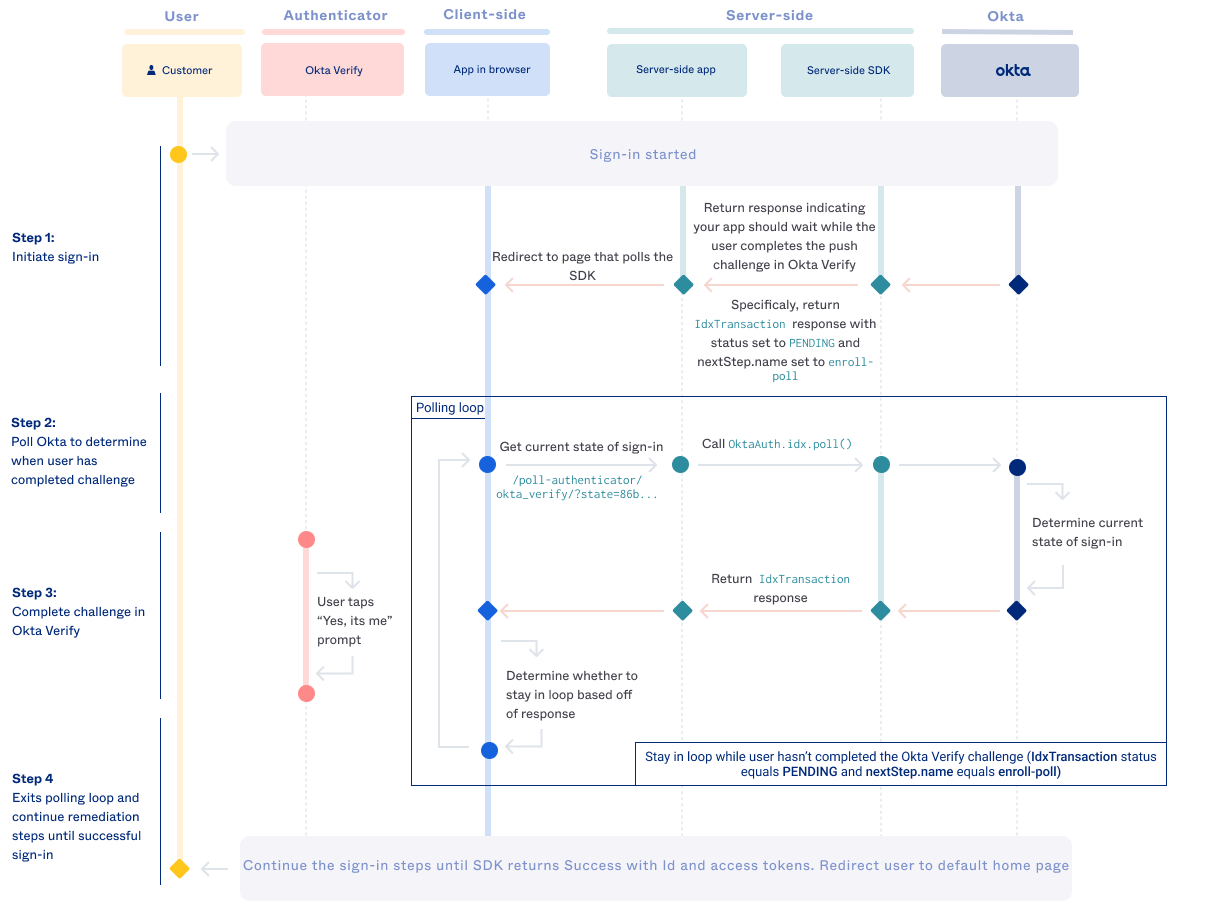
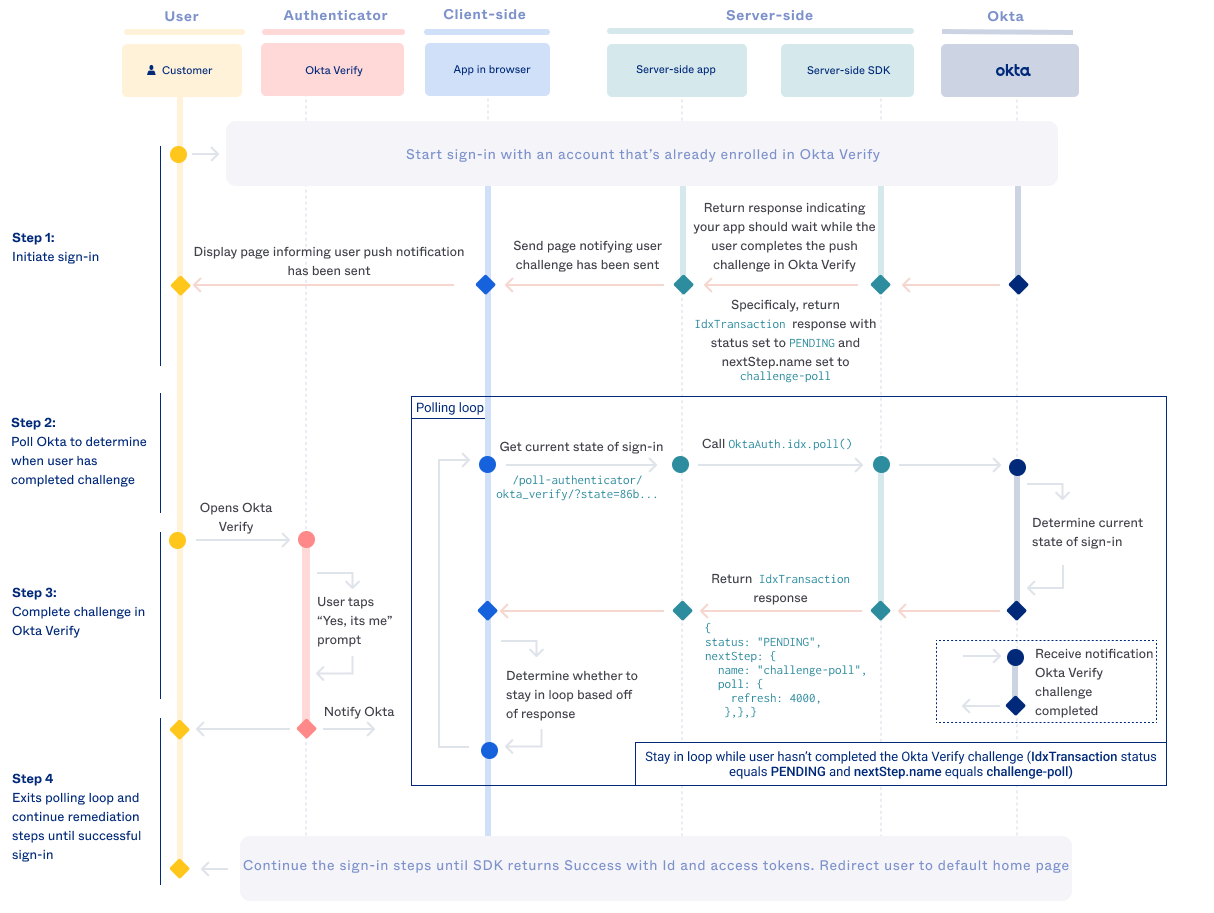
Okta Verify - diagram for enroll push

diff --git a/packages/@okta/vuepress-site/docs/guides/authenticators-okta-verify/main/nodeexpress/commonsteps.md b/packages/@okta/vuepress-site/docs/guides/authenticators-okta-verify/main/nodeexpress/commonsteps.md
@@ -151,15 +151,11 @@ When the user selects and submits a verify option, call `IdxTransaction.idx.proc
 
 ### Polling Okta
 
-During Okta Verify enrollment and challenge, the flow steps outside your app as the user performs actions within Okta Verify. While your app waits, it should poll the SDK to determine when the user finishes their tasks within Okta Verify.
+During Okta Verify enrollment and challenge, the flow steps outside your app as the user performs actions within Okta Verify. While your app waits, it should poll the SDK to determine when the user finishes their tasks within Okta Verify. This polling logic is explained with step-by-step instructions for the Okta Verify challenge flow as an example, although with slight modifications the steps can also apply to the enrollment flow.
 
-#### Polling for Okta Verify Challenge
+#### Summary of steps
 
 The following summarizes the polling logic for the Okta Verify challenge flow with a push notification.
-
-##### Summary of steps
-
-The following summarizes the challenge flow polling for a sign-in:
 
 <div class="common-image-format">
 
@@ -167,26 +163,26 @@ The following summarizes the challenge flow polling for a sign-in:
 
 </div>
 
-##### 1. Initiate sign-in
+#### 1. Initiate sign-in
 
 First, the user initiates the user sign-in with username and password.
 
-##### 2: Poll Okta to determine when user has completed challenge
+#### 2: Poll Okta to determine when user has completed challenge
 
-After the call to `OktaAuth.idx.authenticate`, the responding `IdxTransaction` object returns a `status` of `PENDING` and `nextStep.name` equal to `enroll-poll`. `enroll-poll` indicates that your app should begin polling the SDK to determine when the user has completed the Okta Verify challenge. Although this example is showing the polling for the Okta Verify challenge with push notification, there are other scenarios where your app is directed to poll. These included the following:  your app should poll. The
+After the call to `OktaAuth.idx.authenticate`, the responding `IdxTransaction` object returns a `status` of `PENDING` and `nextStep.name` equal to `enroll-poll`. `enroll-poll` indicates that your app should begin polling the SDK to determine when the user has completed the Okta Verify challenge. Although this example is showing the polling for the Okta Verify challenge with push notification, there are other scenarios where your app is directed to poll. These included the following:
 
-###### Other scenarios where your app polls
+##### Other scenarios where your app polls
 
 * During enrollment to determine when the user has completed account setup in the Okta Verify app by scanning the QR code.
 * During enrollment to determine when the user has completed account setup in the Okta Verify app using the email or SMS activation link.
 * During challenge to determine when the user confirms they are trying to sign in using the Okta Verify app.
 
-Specifically, your app is notified to start polling when the `IdxTransaction` response's properties have the following values:
+Specifically, your app is notified to start polling when `IdxTransaction` has the following property values:
 
 * **For enrollment flow:** `IdxTransaction.status` equals `PENDING` and `IdxTransaction.nextStep.name` equals `enroll-poll`.
 * **For challenge flow:**  `IdxTransaction.status` equals `PENDING` and `IdxTransaction.nextStep.name` equals `challenge-poll`.
 
-###### IdxTransaction response
+##### IdxTransaction response
 
 For this example, `IdxTransaction` response for indicating a poll for an Okta Verify challenge follows:
 
@@ -214,7 +210,7 @@ For this example, `IdxTransaction` response for indicating a poll for an Okta Ve
 }
 ```
 
-And enrollment flow example follows:
+For an enrollment flow, `IdxTranaction` looks like the following:
 
 ```json
 {
@@ -242,7 +238,7 @@ And enrollment flow example follows:
 }
 ```
 
-###### SDK method to poll
+##### SDK method to poll
 
 Use `OktaAuth.idx.poll()` to poll Okta to determine the when the user has completed the flows in Okta Verify.
 
@@ -252,7 +248,9 @@ const transaction = await authClient.idx.poll();
 handleTransactionWithoutRedirect({ req, res, authClient, transaction });
 ```
 
-#### Polling mechanism
+This method is the same for challenge and enrollment flows.
+
+##### Polling mechanism
 
 There are many ways to implement polling in your application. The sample application implements it by repeatedly calling the server using client-side javascript. Your poll interval should be pulled from `IdxTransaction.nextStep.refresh` value.
 
@@ -282,7 +280,7 @@ function poll(url, refresh) {
 ```
 
 
-##### 3: Complete challenge in Okta Verify
+#### 3: Complete challenge in Okta Verify
 
 Next, the user completes the challenge in Okta Verify. For the push notification that tap on the "Yes, its me" prompt. For the enrollment flow, the user needs to add their account to Okta Verify using a QR code or other channel such as email or SMS.
 

diff --git a/packages/@okta/vuepress-site/docs/guides/authenticators-okta-verify/main/nodeexpress/enrollmentqrcodeintegrationsteps.md b/packages/@okta/vuepress-site/docs/guides/authenticators-okta-verify/main/nodeexpress/enrollmentqrcodeintegrationsteps.md
@@ -1,4 +1,4 @@
-### 1: Initiate the sign-in choose Okta Verify as the authenticator
+### 1: Initiate the sign-in and choose Okta Verify as the authenticator
 
 First, the user initiates the user sign-in with username and password and chooses Okta Verify as the authenticator to enroll in. Follow the steps in [Initiate sign in for Okta Verify enrollment](#initiate-sign-in-for-okta-verify-enrollment), to learn more about how to integrate these steps.
 
@@ -69,11 +69,11 @@ Display a page showing the QR code to the user. Example page from the sample app
 
 </div>
 
-### 3: Poll until user completes Okta Verify account setup
+### 3: Poll SDK while enrollment is ongoing
 
 `IdxTransaction.status` of `PENDING` and `nextStep.name` equal to `enroll-poll`, indicates that the user needs to complete the challenge in Okta Verify and your application should begin polling the SDK to determine when the identity challenge is completed.  The polling logic is common across the different flows and the steps are described in detail in [Polling Okta](#polling-okta).
 
-### 4: Install and open Okta Verify
+### 4: Open Okta Verify
 
 Next, the user installs Okta Verify (if not already installed on their device) and opens the app. To learn how to install and use the Okta Verify app, go to the [Okta Help Center](https://help.okta.com/en/prod/Content/Topics/Mobile/okta-verify-overview.htm).
 

diff --git a/packages/@okta/vuepress-site/docs/guides/authenticators-okta-verify/main/nodeexpress/enrollmentqrcodeintegrationsummary.md b/packages/@okta/vuepress-site/docs/guides/authenticators-okta-verify/main/nodeexpress/enrollmentqrcodeintegrationsummary.md
@@ -1,1 +1,5 @@
-TODO: Sequence diagram showing the enrollment flow with QR code
+<div class="common-image-format">
+
+![Sequence diagram for Okta Verify enrollment push notification](/img/authenticators/authenticators-oktaverify-summary-enrollment-qrcode.png)
+
+</div>
